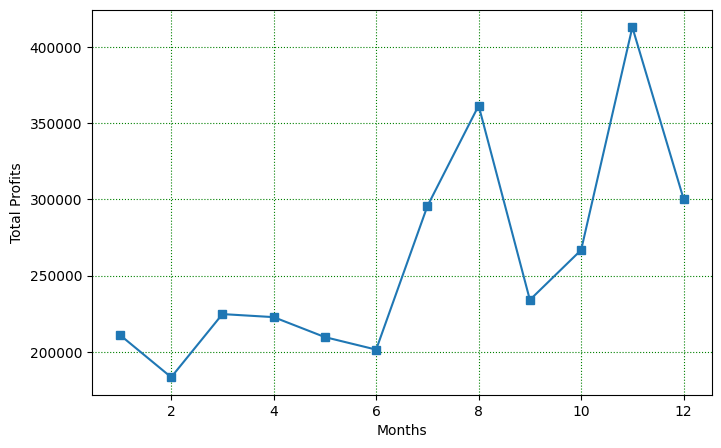
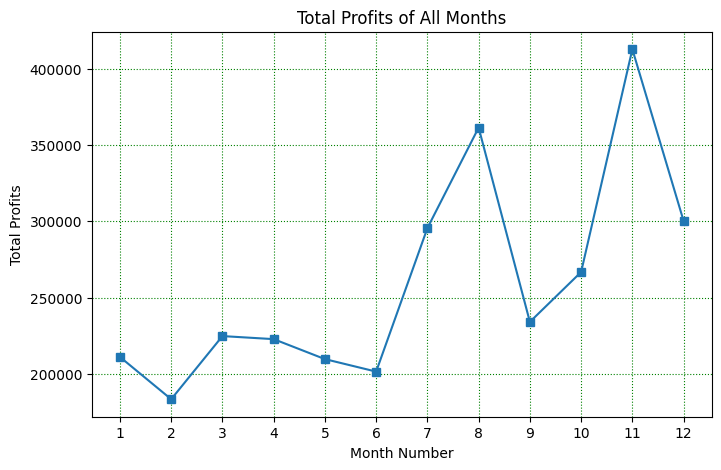
Finished test-3 (excluding 9)

diff --git a/_posts/tests/2025-11-11-swivt-test-3.md b/_posts/tests/2025-11-11-swivt-test-3.md
@@ -24,9 +24,11 @@ print(df[['month_number', 'total_profit']])
 
 plt.figure(figsize=(8, 5))
 plt.plot(df['month_number'], df['total_profit'], marker='s')
-plt.xlabel("Months")
+plt.xlabel("Month Number")
 plt.ylabel("Total Profits")
+plt.title("Total Profits of All Months")
 plt.grid(linestyle=":", color="g")
+plt.xticks(df['month_number'])
 plt.show()
 ```
 **Output**,
@@ -76,7 +78,7 @@ plt.show()
 ```
 **Output**, 
 ```
-month_number  total_units
+    month_number  total_units
 0              1        21100
 1              2        18330
 2              3        22470
@@ -111,6 +113,8 @@ plt.plot(df['month_number'],df['toothpaste'], label="toothpaste", marker="s")
 plt.plot(df['month_number'],df['bathingsoap'], label="bathingsoap", marker="s")
 plt.plot(df['month_number'],df['shampoo'], label="shampoo", marker="s")
 plt.plot(df['month_number'],df['moisturizer'], label="moisturizer", marker="s", linestyle=":")
+plt.xlabel("Month Number")
+plt.ylabel("Sold units number")
 plt.grid(linestyle=":", color="g")
 plt.legend()
 plt.show()
@@ -151,11 +155,37 @@ plt.show()
 
 #### 29.4. Read toothpaste sales data of each month and show it using a scatter plot
 ```py
-code
+import pandas as pd
+import matplotlib.pyplot as plt
+
+df = pd.read_csv('company_sales_data.csv')
+
+print(df[['month_number', 'toothpaste']])
+
+plt.figure(figsize=(8, 5))
+plt.scatter(df['month_number'], df['toothpaste'], s=300)
+plt.xlabel("Month Number")
+plt.ylabel("Sold units number")
+plt.grid(linestyle=":", color="g")
+plt.title("Toothpaste Monthly Sales")
+plt.xticks(df['month_number'])
+plt.show()
 ```
 **Output**,
 ```
-output
+    month_number  toothpaste
+0              1        5200
+1              2        5100
+2              3        4550
+3              4        5870
+4              5        4560
+5              6        4890
+6              7        4780
+7              8        5860
+8              9        6100
+9             10        8300
+10            11        7300
+11            12        7400
 ```
 ![29.2](../../../../../assets/swivt-tests/29-4.png)
 
@@ -163,11 +193,39 @@ output
 
 #### 29.5. Read face cream and facewash product sales data and show it using the bar chart.
 ```py
-code
+import pandas as pd
+import matplotlib.pyplot as plt
+
+df = pd.read_csv('company_sales_data.csv')
+
+print(df[['month_number', 'facecream', 'facewash']])
+
+plt.figure(figsize=(8,5))
+plt.bar(df['month_number'], df['facecream'], label="Facecream")
+plt.bar(df['month_number'], df['facewash'], label="Facewash", width=0.35)
+plt.xlabel("Month Numbers")
+plt.ylabel("Sales Units")
+plt.title("Facecream and Facewash: monthly sales data")
+plt.grid(linestyle=":", color="g")
+plt.legend()
+plt.xticks(df['month_number'])
+plt.show()
 ```
 **Output**,
 ```
-output
+    month_number  facecream  facewash
+0              1       2500      1500
+1              2       2630      1200
+2              3       2140      1340
+3              4       3400      1130
+4              5       3600      1740
+5              6       2760      1555
+6              7       2980      1120
+7              8       3700      1400
+8              9       3540      1780
+9             10       1990      1890
+10            11       2340      2100
+11            12       2900      1760
 ```
 ![29.2](../../../../../assets/swivt-tests/29-5.png)
 
@@ -175,11 +233,37 @@ output
 
 #### 29.6. Read sales data of bathing soap of all months and show it using a bar chart. Save this plot to your hard disk.
 ```py
-code
+import pandas as pd
+import matplotlib.pyplot as plt
+
+df = pd.read_csv('company_sales_data.csv')
+
+print(df[['month_number', 'bathingsoap']])
+
+plt.figure(figsize=(8,5))
+plt.bar(df['month_number'], df['bathingsoap'])
+plt.xlabel("Month Numbers")
+plt.ylabel("Total Sales")
+plt.title("Bathing Soap Monthly Sales")
+plt.grid(linestyle=":", color="g")
+plt.xticks(df['month_number'])
+plt.show()
 ```
 **Output**,
 ```
-output
+    month_number  bathingsoap
+0              1         9200
+1              2         6100
+2              3         9550
+3              4         8870
+4              5         7760
+5              6         7490
+6              7         8980
+7              8         9960
+8              9         8100
+9             10        10300
+10            11        13300
+11            12        14400
 ```
 ![29.2](../../../../../assets/swivt-tests/29-6.png)
 
@@ -187,11 +271,35 @@ output
 
 #### 29.7. Read the total profit of each month and show it using the histogram to see the most common profit ranges
 ```py
-code
+import pandas as pd
+import matplotlib.pyplot as plt
+
+df = pd.read_csv('company_sales_data.csv')
+
+print(df[['month_number', 'total_profit']])
+
+plt.figure(figsize=(8, 5))
+plt.hist(df['total_profit'])
+plt.xlabel("Total Profits")
+plt.title("Total Profit")
+plt.grid(linestyle=":", color="g")
+plt.show()
 ```
 **Output**,
 ```
-output
+    month_number  total_profit
+0              1        211000
+1              2        183300
+2              3        224700
+3              4        222700
+4              5        209600
+5              6        201400
+6              7        295500
+7              8        361400
+8              9        234000
+9             10        266700
+10            11        412800
+11            12        300200
 ```
 ![29.2](../../../../../assets/swivt-tests/29-7.png)
 
@@ -199,11 +307,38 @@ output
 
 #### 29.8. Calculate total sale data for last year for each product and show it using a Pie chart
 ```py
-code
+import pandas as pd
+import matplotlib.pyplot as plt
+
+df = pd.read_csv('company_sales_data.csv')
+
+total_facecream = df['facecream'].sum()
+total_facewash = df['facewash'].sum()
+total_toothpaste = df['toothpaste'].sum()
+total_bathingsoap = df['bathingsoap'].sum()
+total_shampoo = df['shampoo'].sum()
+total_moisturizer = df['moisturizer'].sum()
+
+print("Total Facecream:", total_facecream)
+print("Total Facewash:", total_facewash)
+print("Total Toothpaste:", total_toothpaste)
+print("Total Bathingsoap:", total_bathingsoap)
+print("Total Shampoo:", total_shampoo)
+print("Total Moisturizer:", total_moisturizer)
+
+plt.figure(figsize=(8, 5))
+plt.pie([total_facecream, total_facewash, total_toothpaste, total_bathingsoap, total_shampoo, total_moisturizer], labels = ['facecream', 'facewash', 'toothpaste', 'bathingsoap', 'shampoo', 'moisturizer'], colors=["red", "hotpink", "g", "#93B41B", 'tomato', "#5271C0"], explode=[0, 0, 0, 0, 0.03, 0], startangle=0, shadow = False)
+plt.title("Company Sales Data")
+plt.show()
 ```
 **Output**,
 ```
-output
+Total Facecream: 34480
+Total Facewash: 18515
+Total Toothpaste: 69910
+Total Bathingsoap: 114010
+Total Shampoo: 25410
+Total Moisturizer: 18515
 ```
 ![29.2](../../../../../assets/swivt-tests/29-8.png)
 
@@ -228,30 +363,51 @@ import matplotlib.pyplot as plt
 
 df = pd.read_csv('company_sales_data.csv')
 
-total_facecream = df['facecream'].sum()
-total_facewash = df['facewash'].sum()
-total_toothpaste = df['toothpaste'].sum()
-total_bathingsoap = df['bathingsoap'].sum()
-total_shampoo = df['shampoo'].sum()
-total_moisturizer = df['moisturizer'].sum()
+print(df[['month_number', 'facecream', 'facewash', 'toothpaste', 'bathingsoap', 'shampoo', 'moisturizer']])
 
-print("Total Facecream:", total_facecream)
-print("Total Facewash:", total_facewash)
-print("Total Toothpaste:", total_toothpaste)
-print("Total Bathingsoap:", total_bathingsoap)
-print("Total Shampoo:", total_shampoo)
-print("Total Moisturizer:", total_moisturizer)
-
-plt.pie([total_facecream, total_facewash, total_toothpaste, total_bathingsoap, total_shampoo, total_moisturizer], labels = ['facecream', 'facewash', 'toothpaste', 'bathingsoap', 'shampoo', 'moisturizer'], colors=["red", "hotpink", "g", "#93B41B", 'tomato', "#5271C0"], explode=[0, 0, 0, 0, 0.03, 0], startangle=0, shadow = False)
+plt.figure(figsize=(8, 5))
+plt.plot(df['month_number'], df['facecream'], marker="s", label="Facecream")
+plt.plot(df['month_number'], df['facewash'], marker="s", label="Facewash")
+plt.plot(df['month_number'], df['toothpaste'], marker="s", label="Toothpaste")
+plt.plot(df['month_number'], df['bathingsoap'], marker="s", label="Bathing Soap")
+plt.plot(df['month_number'], df['shampoo'], marker="s", label="Shampoo")
+plt.plot(df['month_number'], df['moisturizer'], marker="s", label="Moisturizer", linestyle=":")
+plt.xlabel("Month Number")
+plt.ylabel("Sold Unit Numbers")
+plt.title("Company Sales Data")
+plt.grid(linestyle=":", color="g")
+plt.xticks(df['month_number'])
+plt.legend()
 plt.show()
 ```
 **Output**,
 ```
-Total Facecream: 34480
-Total Facewash: 18515
-Total Toothpaste: 69910
-Total Bathingsoap: 114010
-Total Shampoo: 25410
-Total Moisturizer: 18515
+    month_number  facecream  facewash  toothpaste  bathingsoap  shampoo  \
+0              1       2500      1500        5200         9200     1200   
+1              2       2630      1200        5100         6100     2100   
+2              3       2140      1340        4550         9550     3550   
+3              4       3400      1130        5870         8870     1870   
+4              5       3600      1740        4560         7760     1560   
+5              6       2760      1555        4890         7490     1890   
+6              7       2980      1120        4780         8980     1780   
+7              8       3700      1400        5860         9960     2860   
+8              9       3540      1780        6100         8100     2100   
+9             10       1990      1890        8300        10300     2300   
+10            11       2340      2100        7300        13300     2400   
+11            12       2900      1760        7400        14400     1800   
+
+    moisturizer  
+0          1500  
+1          1200  
+2          1340  
+3          1130  
+4          1740  
+5          1555  
+6          1120  
+7          1400  
+8          1780  
+9          1890  
+10         2100  
+11         1760  
 ```
 ![pie-chart-1](../../../../../assets/swivt-tests/29-10.png)
